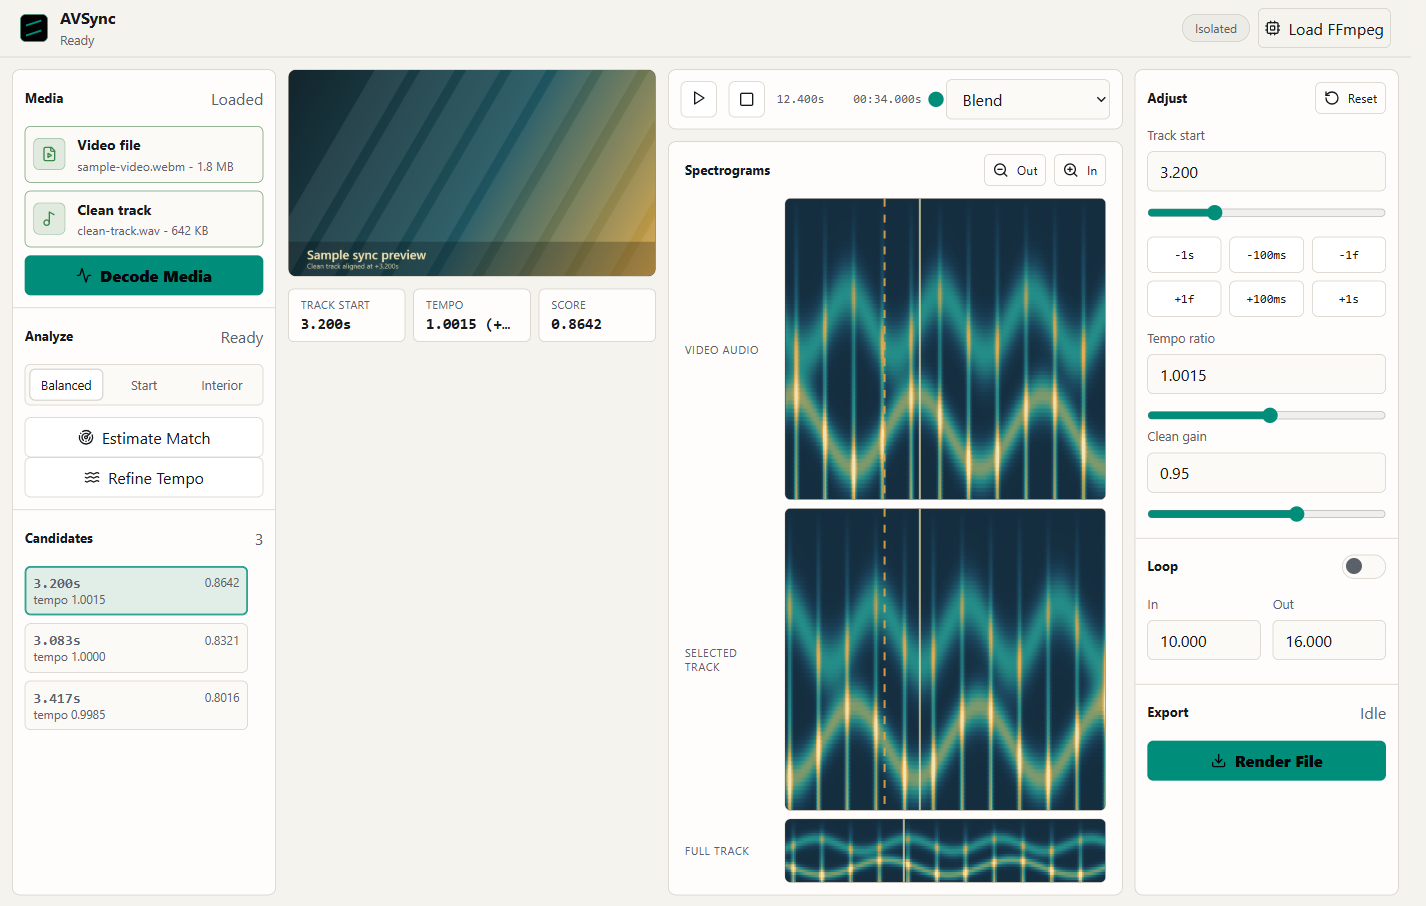
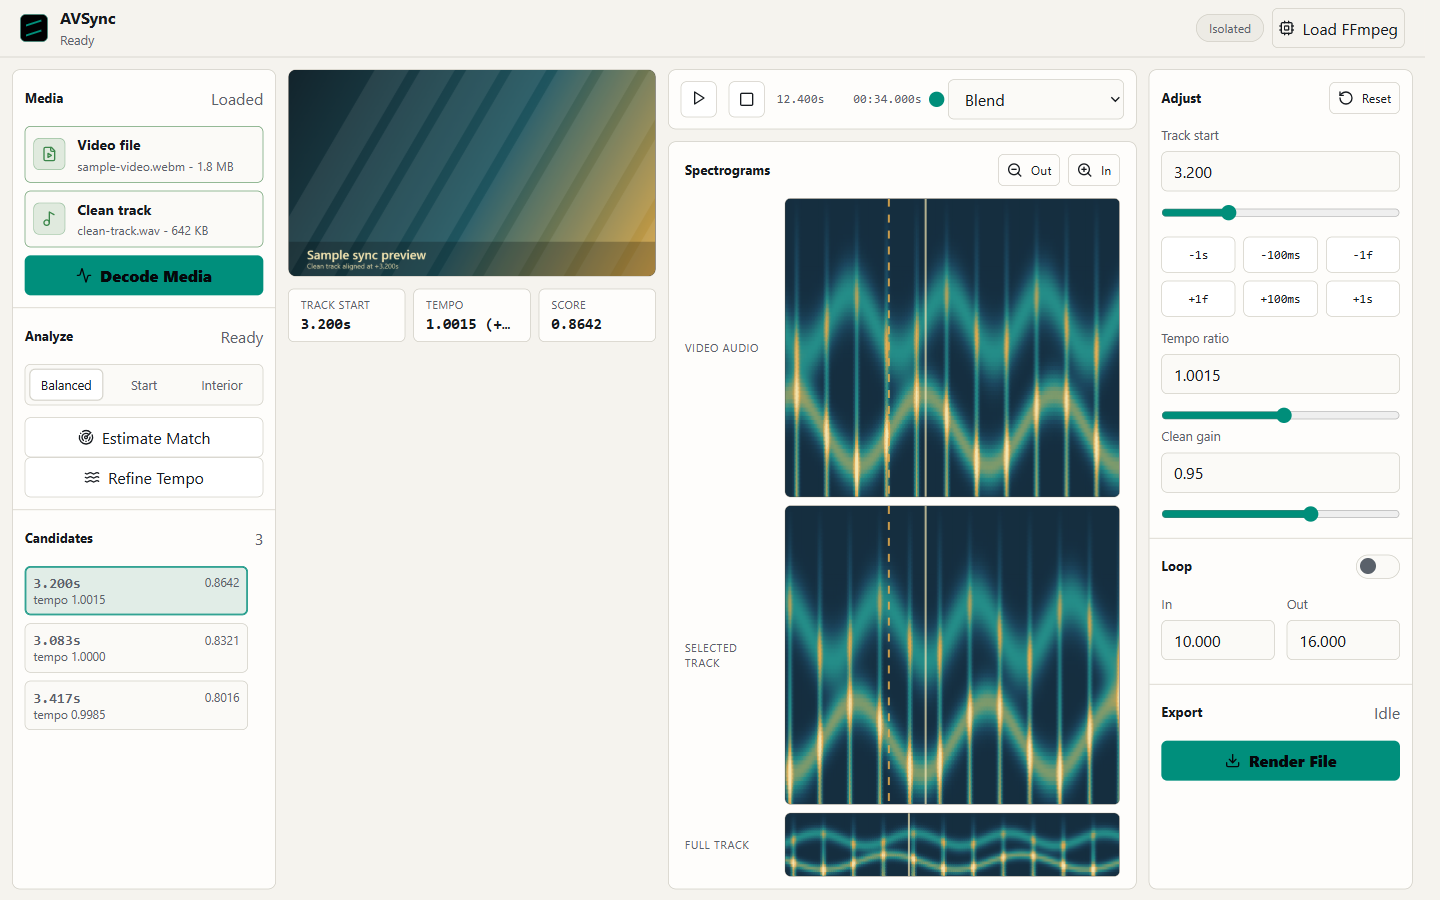
docs(readme): align screenshot presentation

diff --git a/README.md b/README.md
@@ -19,9 +19,13 @@ video stream plus the replacement audio. User media stays on your machine.
 
 Screenshots use generated sample media; no user files are included in the repo.
 
-![AVSync workspace with sample media, candidates, trim controls, and spectrograms](docs/assets/screenshots/avsync-workspace.png)
+<p align="center">
+  <img src="docs/assets/screenshots/avsync-workspace.png" alt="AVSync workspace with sample media, candidates, trim controls, and spectrograms" width="100%">
+</p>
 
-![AVSync spectrogram view with video audio, selected track, and full-track overview](docs/assets/screenshots/avsync-spectrograms.png)
+<p align="center">
+  <img src="docs/assets/screenshots/avsync-spectrograms.png" alt="AVSync spectrogram view with video audio, selected track, and full-track overview" width="100%">
+</p>
 
 ## Features
 
